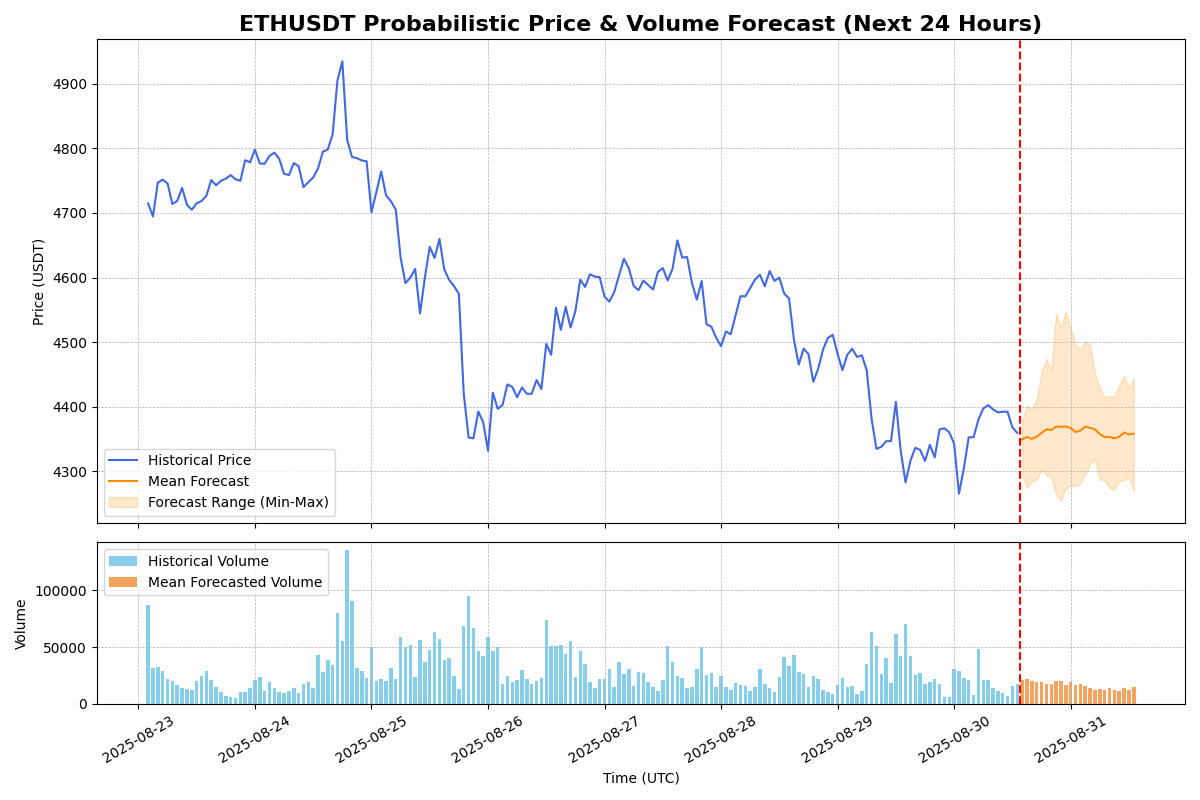
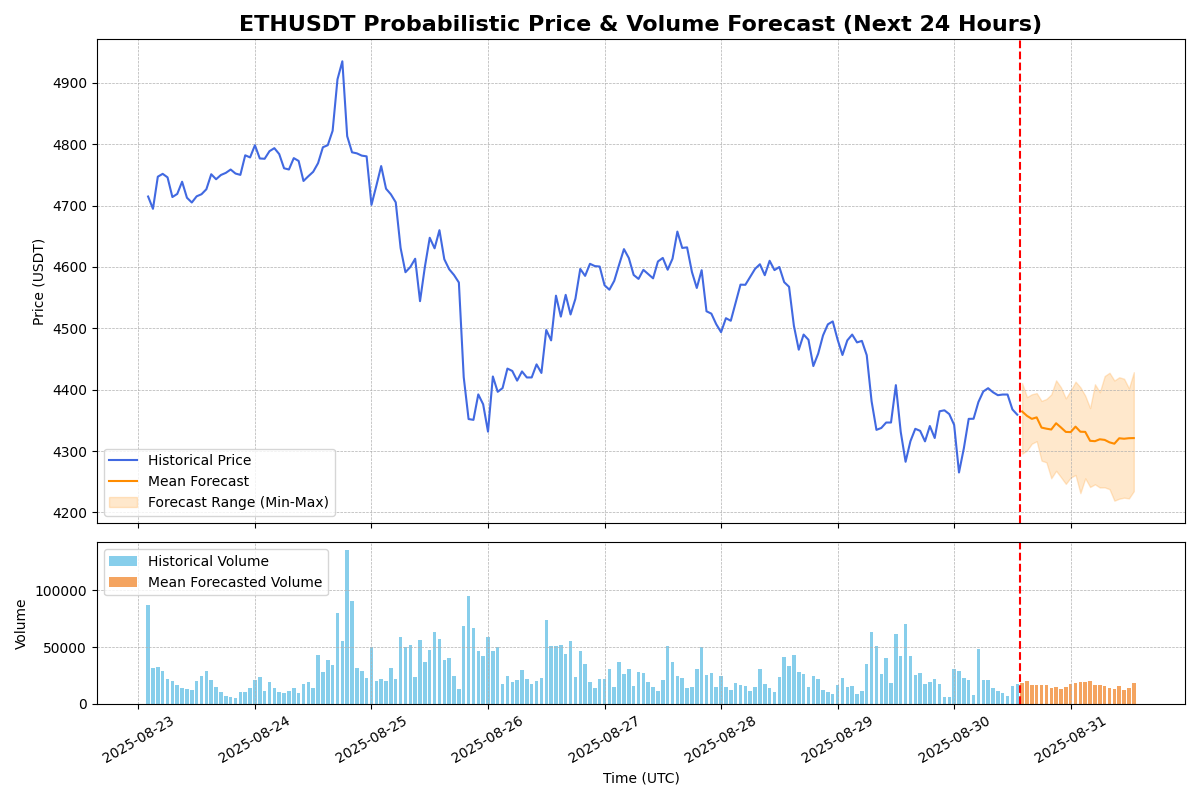
Initial forecasts for 2025-08-30 14:49 UTC

diff --git a/index.html b/index.html
@@ -20,7 +20,7 @@
     <main class="container">
         <section id="live-dashboard">
             <div class="metadata">
-                <span>服务运行生成数据时间: <strong>2025-08-30 14:37:56</strong></span>
+                <span>服务运行生成数据时间: <strong>2025-08-30 14:49:23</strong></span>
                 <span>数据来源: Binance (via CCXT) | 时间间隔: 1小时</span>
             </div>
                <div class="chart-wrapper">
@@ -34,7 +34,7 @@
             <div class="metrics-container">
                 <div class="metric-card">
                     <h3>上涨概率 (未来24小时)</h3>
-                    <p class="metric-value" id="upside-prob-BTCUSDT">80.0%</p>
+                    <p class="metric-value" id="upside-prob-BTCUSDT">66.7%</p>
                     <div class="metric-desc">模型对24小时后价格高于当前价格的信心程度。</div>
                 </div>
                 <div class="metric-card">
@@ -52,17 +52,40 @@
             </div>
             <hr>
 
+            <h2>ETHUSDT 预测</h2>
+            
+            <div class="metrics-container">
+                <div class="metric-card">
+                    <h3>上涨概率 (未来24小时)</h3>
+                    <p class="metric-value" id="upside-prob-ETHUSDT">33.3%</p>
+                    <div class="metric-desc">模型对24小时后价格高于当前价格的信心程度。</div>
+                </div>
+                <div class="metric-card">
+                    <h3>波动性增加 (未来24小时)</h3>
+                    <p class="metric-value" id="vol-amp-prob-ETHUSDT">6.7%</p>
+                    <div class="metric-desc">未来24小时预测波动性超过近期历史波动性的概率。</div>
+                </div>
+            </div>
+
+            <div class="chart-wrapper">
+                <h3>24小时概率预测</h3>
+                <div class="chart-container">
+                    <img src="img/ethusdt_prediction.png" alt="ETHUSDT价格和交易量预测图表" class="chart-img">
+                </div>
+            </div>
+            <hr>
+
             <h2>SOLUSDT 预测</h2>
             
             <div class="metrics-container">
                 <div class="metric-card">
                     <h3>上涨概率 (未来24小时)</h3>
-                    <p class="metric-value" id="upside-prob-SOLUSDT">26.7%</p>
+                    <p class="metric-value" id="upside-prob-SOLUSDT">13.3%</p>
                     <div class="metric-desc">模型对24小时后价格高于当前价格的信心程度。</div>
                 </div>
                 <div class="metric-card">
                     <h3>波动性增加 (未来24小时)</h3>
-                    <p class="metric-value" id="vol-amp-prob-SOLUSDT">0.0%</p>
+                    <p class="metric-value" id="vol-amp-prob-SOLUSDT">13.3%</p>
                     <div class="metric-desc">未来24小时预测波动性超过近期历史波动性的概率。</div>
                 </div>
             </div>
@@ -103,12 +126,12 @@
             <div class="metrics-container">
                 <div class="metric-card">
                     <h3>上涨概率 (未来24小时)</h3>
-                    <p class="metric-value" id="upside-prob-BNBUSDT">33.3%</p>
+                    <p class="metric-value" id="upside-prob-BNBUSDT">26.7%</p>
                     <div class="metric-desc">模型对24小时后价格高于当前价格的信心程度。</div>
                 </div>
                 <div class="metric-card">
                     <h3>波动性增加 (未来24小时)</h3>
-                    <p class="metric-value" id="vol-amp-prob-BNBUSDT">53.3%</p>
+                    <p class="metric-value" id="vol-amp-prob-BNBUSDT">60.0%</p>
                     <div class="metric-desc">未来24小时预测波动性超过近期历史波动性的概率。</div>
                 </div>
             </div>
@@ -126,12 +149,12 @@
             <div class="metrics-container">
                 <div class="metric-card">
                     <h3>上涨概率 (未来24小时)</h3>
-                    <p class="metric-value" id="upside-prob-DOGEUSDT">20.0%</p>
+                    <p class="metric-value" id="upside-prob-DOGEUSDT">6.7%</p>
                     <div class="metric-desc">模型对24小时后价格高于当前价格的信心程度。</div>
                 </div>
                 <div class="metric-card">
                     <h3>波动性增加 (未来24小时)</h3>
-                    <p class="metric-value" id="vol-amp-prob-DOGEUSDT">6.7%</p>
+                    <p class="metric-value" id="vol-amp-prob-DOGEUSDT">0.0%</p>
                     <div class="metric-desc">未来24小时预测波动性超过近期历史波动性的概率。</div>
                 </div>
             </div>
